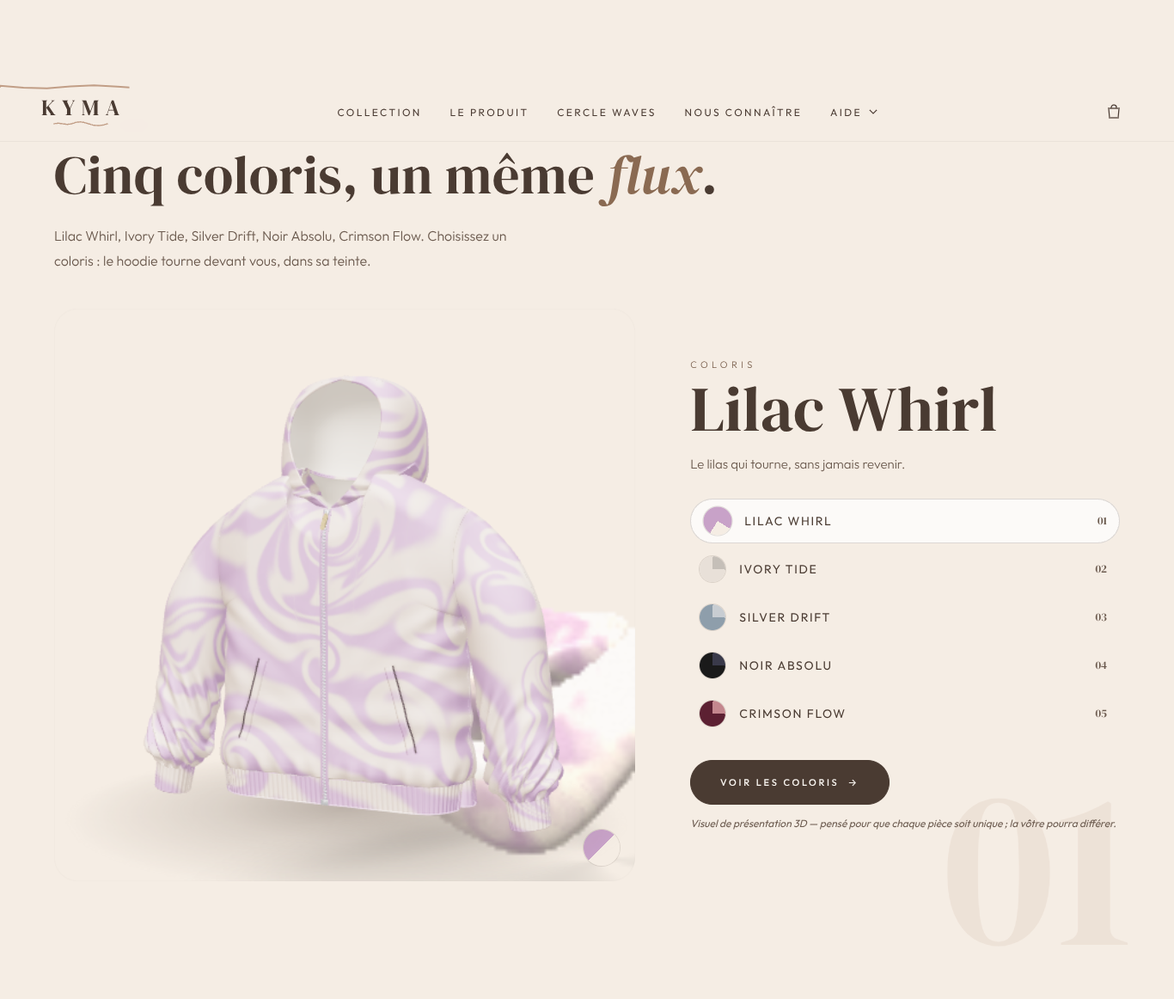
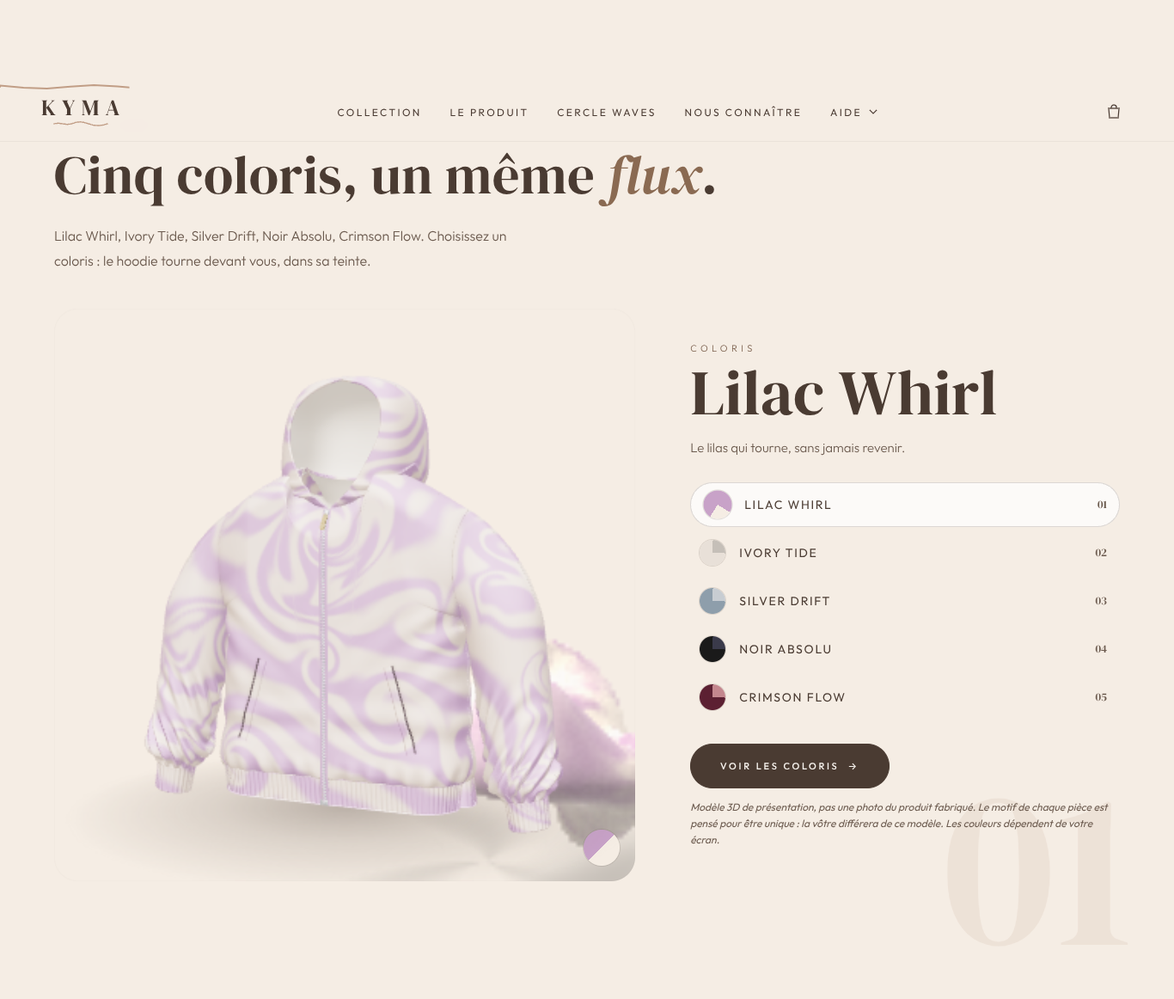
Maya : retouches finales d'Arthur sur la v4 et le calendrier Instagram
Claude-Session: https://claude.ai/code/session_01RrtVQxaHYVWpjYx9XrEfdG

Changed region(s): [[0.5842, 0.3408, 0.9531, 0.8365], [0.3382, 0.6196, 0.5534, 0.8985], [0.9224, 0.4957, 0.9531, 0.5267]]

diff --git a/shopify/3d/build_hoodie_v3.py b/shopify/3d/build_hoodie_v3.py
@@ -690,7 +690,7 @@ def shell_from_grid(G, out_ref, uv0, uv1, closed_u=False, lining_step=2, rims=("
         Ni = -Ni
     if apex:   # pointe : l'envers s'arrête où l'épaisseur s'annule (sinon il perce l'endroit)
         rowi = Fi.max(1) // len(ii)
-        Fi = Fi[th_rows[jj][rowi] > 0.5 * th]
+        Fi = Fi[rowlen[jj][rowi] > 0.08]
     U1i = uv1[np.ix_(jj, ii)].reshape(-1, 2)
     inner = Mesh(Vi, Fi, lining, None, U1i, Ni)
     # lisières (bord roulé) : rangée extérieure -> milieu bombé -> rangée intérieure

diff --git a/finance/cercle-waves-economie.md b/finance/cercle-waves-economie.md
@@ -1,0 +1,156 @@
+# Cercle Waves — économie, TVA et comptabilité (méthode et simulations sur prix publics)
+
+> **Auteur** : Abdou (comptable et conseiller financier KYMA) · **Date** : 10/10/2026 · **Pour** : fondateur, Victoire, Maya, Sacha, Arthur.
+> **Fichier versionné (dépôt public)** : uniquement des prix publics (12,99 €, 39,99 €, 5 %, 10 %, 179 €, 199 €) et des tarifs publics de prestataires. Les marges réelles du hoodie sont dans `finance/private/` (non versionné).
+> **Rappel unique** : je ne suis pas expert-comptable inscrit à l'Ordre ; le traitement TVA et comptable ci-dessous doit être validé par un expert-comptable diplômé avant la première souscription.
+> Calculs en Python, arrondis au centime. TVA 20 %.
+
+## 1. Prix publics : HT et TVA
+
+| Palier | Prix TTC / trimestre | HT | TVA | Sur 4 trimestres TTC (si l'abonné reste un an) | HT |
+|---|---|---|---|---|---|
+| INITIUM | 12,99 € | 10,83 € | 2,17 € | 51,96 € | 43,30 € |
+| MAJESTÉ | 39,99 € | 33,33 € | 6,67 € | 159,96 € | 133,30 € |
+
+## 2. Vérification des calculs de Victoire (et d'Arthur)
+
+| Calcul | Résultat | Verdict |
+|---|---|---|
+| Cashback par hoodie à 179 € | INITIUM 5 % = **8,95 €** ; MAJESTÉ 10 % = **17,90 €** | ✅ exact |
+| Seuil « le cashback couvre la cotisation » | INITIUM 12,99 ÷ 5 % = **259,80 €** (« 260 € ») ; MAJESTÉ 39,99 ÷ 10 % = **399,90 €** (« 400 € ») d'achats par trimestre | ✅ exact (calcul **vu du client**, en TTC ; le ratio est le même en HT) |
+| « Soit 2 hoodies » / « soit 3 hoodies » à 179 € | 2 × 179 = 358 € ≥ 259,80 ; 2 × 179 = 358 € < 399,90 ≤ 3 × 179 = 537 € | ✅ exact |
+| Rétractation MAJESTÉ au 4e jour d'une période de 91 jours | 39,99 × 4 ÷ 91 = 1,7578 → **1,76 € retenus**, **38,23 € remboursés** | ✅ exact (la période réelle compte 90 à 92 jours : la formule « jours écoulés ÷ jours de la période » reste juste) |
+| Même cas INITIUM | 12,99 × 4 ÷ 91 = **0,57 € retenus**, 12,42 € remboursés | (ajout) |
+
+**Deux précisions** :
+1. À **199 €**, le cashback devient 9,95 € (INITIUM) et 19,90 € (MAJESTÉ) ; **2 hoodies à 199 € = 398 €, juste sous le seuil MAJESTÉ de 399,90 €** : le message « 3 hoodies » reste vrai.
+2. Ces seuils disent quand le **client** récupère sa cotisation. Ils ne disent pas quand le programme **coûte** à KYMA : voir § 4.
+
+## 3. Coûts du programme pour KYMA (par abonné)
+
+| Poste | Central | Prudent | Source |
+|---|---|---|---|
+| Frais de paiement sur la cotisation | 1,5 % + 0,25 € → 0,44 € (INITIUM) / 0,85 € (MAJESTÉ) | 2,7 % + 0,25 € → 0,60 € / 1,33 € | Shopify Payments FR, Basic (Isabelle, `finance/couts-reels-recherche.md`) ; barème à vérifier dans l'admin |
+| Carte physique PVC imprimée | 1,50 € | 3,00 € | 0,15–3 € / u pour 100 cartes selon finition (hellopro.fr, accio) ; hypothèse sans devis |
+| Enveloppe | 0,20 € | 0,20 € | hypothèse |
+| Affranchissement lettre verte 20 g | 1,52 € | 1,52 € | La Poste, tarif au 01/01/2026 |
+| **Carte envoyée, total (une fois)** | **3,22 €** | **4,72 €** | Amortie sur 4 trimestres (central) ou 2 (prudent) |
+| Appli d'abonnement | ≈ 0,30 € / abonné / trimestre | idem | Appstle : gratuit jusqu'à 500 $ / mois de revenus d'abonnement, puis 10 / 30 / 100 $ / mois, 0 % de commission ; Seal : gratuit jusqu'à 50 abonnements, puis 5,95–9,95 $ / mois (Isabelle). Coût négligeable au démarrage ; Recharge (99 $ / mois) ou Bold (+1 à 2 %) à éviter |
+| Crédit Waves (avoirs) | 0 € si avoir natif Shopify ou Shopify Flow | — | voir § 6 (attention au traitement TVA de l'outil) |
+
+**Marge du programme avant cashback, par abonné et par trimestre** : INITIUM **9,28 €** (central) / **7,56 €** (prudent) ; MAJESTÉ **31,37 €** / **29,34 €**.
+
+## 4. Coût réel du cashback et seuil où le programme coûte plus qu'il ne rapporte
+
+**Méthode.** Le cashback est versé en Crédit Waves (avoir), pas en argent. Il ne coûte que **s'il est utilisé**. Quand il l'est, il réduit le prix payé sur un achat suivant : KYMA perd le **montant HT** du crédit (la TVA baisse avec le prix : voir § 5). Coût par trimestre = taux de cashback × achats TTC × **taux d'utilisation** ÷ 1,2.
+
+| Coût du cashback par hoodie utilisé | 179 € | 199 € |
+|---|---|---|
+| INITIUM 5 % | 8,95 € TTC → **7,46 € HT** | 9,95 € TTC → 8,29 € HT |
+| MAJESTÉ 10 % | 17,90 € TTC → **14,92 € HT** | 19,90 € TTC → 16,58 € HT |
+
+Soit, en pourcentage du chiffre d'affaires HT des abonnés : **5 % × taux d'utilisation** (INITIUM) et **10 % × taux d'utilisation** (MAJESTÉ).
+
+**Solde du programme par abonné et par trimestre** (cotisation HT − frais − carte − appli − cashback utilisé), selon les achats de produits TTC du trimestre et le taux d'utilisation des crédits :
+
+*Central*
+| Achats TTC / trimestre | INITIUM u = 50 % | 70 % | 100 % | MAJESTÉ u = 50 % | 70 % | 100 % |
+|---|---|---|---|---|---|---|
+| 0 € | 9,28 | 9,28 | 9,28 | 31,37 | 31,37 | 31,37 |
+| 179 € (1 hoodie) | 5,55 | 4,05 | 1,82 | 23,91 | 20,93 | 16,45 |
+| 358 € (2 hoodies) | 1,82 | −1,17 | −5,64 | 16,45 | 10,49 | 1,54 |
+| 537 € (3 hoodies) | −1,91 | −6,39 | −13,10 | 9,00 | 0,05 | −13,38 |
+| 716 € (4 hoodies) | −5,64 | −11,61 | −20,56 | 1,54 | −10,40 | −28,30 |
+
+*Prudent*
+| Achats TTC / trimestre | INITIUM u = 50 % | 70 % | 100 % | MAJESTÉ u = 50 % | 70 % | 100 % |
+|---|---|---|---|---|---|---|
+| 179 € | 3,84 | 2,34 | 0,11 | 21,88 | 18,89 | 14,42 |
+| 358 € | 0,11 | −2,88 | −7,35 | 14,42 | 8,45 | −0,50 |
+| 537 € | −3,62 | −8,10 | −14,81 | 6,96 | −1,99 | −15,41 |
+
+**Seuil d'achats trimestriels au-delà duquel le programme, pris isolément, coûte plus qu'il ne rapporte** : P* = (marge avant cashback × 1,2) ÷ (taux × u).
+
+| Seuil P* (TTC / trimestre) | u = 50 % | u = 70 % | u = 100 % |
+|---|---|---|---|
+| INITIUM central | 445 € | 318 € | **223 €** |
+| INITIUM prudent | 363 € | 259 € | **182 €** |
+| MAJESTÉ central | 753 € | 538 € | **376 €** |
+| MAJESTÉ prudent | 704 € | 503 € | **352 €** |
+
+À u = 100 % et sans frais, on retrouve exactement les seuils de Victoire (259,80 € et 399,90 €) : vu du client comme vu de KYMA, la cotisation « paie » le cashback jusqu'à ce niveau. Les frais de paiement et la carte **abaissent** le seuil côté KYMA (~182–223 € et ~352–376 €) ; un taux d'utilisation inférieur à 100 % le **relève**.
+
+**Mais ce seuil n'est pas le bon critère de décision.** Un abonné qui dépasse P* coûte au programme, mais il **achète** : chaque hoodie rapporte la marge sur coûts variables de KYMA (notée *m*). Le programme est rentable si les achats **supplémentaires** qu'il provoque compensent le cashback versé sur les achats qui auraient eu lieu de toute façon. Contribution d'un hoodie supplémentaire acheté par un abonné (u = 100 %, 179 €) = *m* − 7,46 € (INITIUM) ou *m* − 14,92 € (MAJESTÉ). Exemples illustratifs (*m* fictif, pas la marge réelle de KYMA) :
+
+| *m* illustratif | INITIUM | MAJESTÉ |
+|---|---|---|
+| 20 € | 12,54 € | **5,08 €** |
+| 40 € | 32,54 € | 25,08 € |
+| 60 € | 52,54 € | 45,08 € |
+
+Lecture : avec une marge unitaire faible, **le cashback de 10 % absorbe l'essentiel de la marge** de chaque hoodie acheté par un MAJESTÉ. Le calcul avec la marge réelle est dans `finance/private/cercle-waves-prive.md`.
+
+**Repères** : le marché observé par Isabelle se situe à 3–5 % de cashback ; 10 % est au-dessus (Victoire, E8). Le seul programme à crédit plus élevé (Vicci+) convertit **la cotisation elle-même** en crédit, ce qui est un autre modèle.
+
+## 5. TVA
+
+### 5.1 La cotisation
+- Prestation de services (accès anticipé, aperçus, carte, droit au cashback) : **TVA 20 %**, exigible **à l'encaissement** (règle des prestations de services). Chaque prélèvement trimestriel est une opération à facturer (facture ou ticket conforme, mention du palier et de la période).
+- **Rétractation** : le remboursement (total ou au prorata) réduit la base imposable et la TVA collectée du mois du remboursement.
+- **Carte physique** : accessoire de l'abonnement, comprise dans le prix (pas de facturation séparée), TVA 20 % de toute façon.
+- **Clients d'autres pays de l'UE** : tant que le total des ventes à distance de biens et des services électroniques à des particuliers d'autres États membres reste **sous 10 000 € par an**, TVA française ; au-delà, TVA du pays du client via le guichet unique (OSS). La qualification de l'abonnement (service fourni par voie électronique ou non) est à confirmer par l'expert-comptable (Victoire O1).
+- **Franchise en base** : si KYMA choisit la franchise (voir `finance/statut-comparatif.md`), aucune TVA n'est facturée (« TVA non applicable, art. 293 B du CGI ») et les calculs HT ci-dessus deviennent TTC = HT.
+
+### 5.2 Le Crédit Waves : bon (art. 256 ter CGI) ou réduction de prix ?
+| Question | Réponse | Certitude |
+|---|---|---|
+| Le Crédit Waves est-il un « bon » au sens de l'art. 256 ter du CGI (directive (UE) 2016/1065) ? | **Probablement non.** Un bon suppose d'être **remis à titre onéreux** : le BOFiP précise que les bons **remis gratuitement** par l'émetteur ne relèvent pas de l'art. 256 ter (BOI-TVA-CHAMP-10-10-40-50). Le Crédit Waves n'est pas vendu : il est accordé en fonction d'un achat. | Moyenne : le client paie une cotisation qui donne **droit** au cashback ; l'administration pourrait y voir une contrepartie. À faire trancher par l'expert-comptable. |
+| Si c'était un bon : à usage unique ou à usages multiples ? | À **usage unique** si, à l'émission, le lieu de livraison et la TVA due sont connus (tous les produits KYMA à 20 %, livraison en France) ; **à usages multiples** s'il peut servir pour des livraisons dans d'autres États membres (TVA du pays du client via OSS) ou sur des produits à taux différents. Bon à usage unique = TVA due **à l'émission** ; bon à usages multiples = TVA due **à l'utilisation**. | Élevée sur la règle (BOFiP) |
+| Traitement retenu (proposition) | **Réduction de prix accordée sur l'achat suivant** : la TVA est calculée sur le prix **effectivement payé** après déduction du crédit (CGI art. 267, II-2° : les rabais, remises et ristournes consentis directement aux clients sont exclus de la base). Aucune TVA à l'octroi du crédit ; aucune TVA sur la part payée en crédit. | Moyenne : pas de doctrine trouvée sur les programmes de fidélité eux-mêmes |
+| Alternative | Rabais ultérieur sur l'achat **qui a généré** le crédit (avoir rectificatif). Écarté : le crédit peut ne jamais être utilisé, l'avoir serait prématuré. | — |
+| Crédit remboursable en argent ? | **Non** (décision Victoire) : sinon il changerait de nature (moyen de paiement, monnaie électronique). | Élevée |
+
+**Exemple** (proposition à valider) : un abonné MAJESTÉ a 17,90 € de crédit et achète un hoodie à 179 €. Il paie 161,10 € TTC. Base HT = 161,10 ÷ 1,2 = **134,25 €** ; TVA = **26,85 €** (au lieu de 29,83 €). KYMA a bien « payé » 14,92 € HT de cashback.
+
+**⚠ Point technique (Sacha)** : si le Crédit Waves est créé comme **crédit en magasin ou carte cadeau** dans Shopify, Shopify le traite comme un **moyen de paiement** et calcule la TVA sur 179 € : la déclaration de TVA tirée des rapports Shopify serait alors **trop élevée**, ou le traitement « réduction de prix » contredit par les pièces. Deux solutions : (a) appliquer le crédit comme **remise** sur la commande (code ou réduction automatique), ou (b) garder le crédit en magasin et corriger la base TVA en comptabilité, avec une procédure écrite validée par l'expert-comptable. À trancher **avant** la première commande d'un abonné.
+
+Note : la cotisation ne doit pas être présentée comme convertible en crédit ; si un jour KYMA vend un « crédit prépayé » (type Vicci+), il deviendrait un **bon à titre onéreux** (art. 256 ter) : autre traitement.
+
+## 6. Comptabilité (plan comptable général, schéma à valider)
+
+| Événement | Écriture (comptes PCG) |
+|---|---|
+| Encaissement de la cotisation | 512 / 411 au débit ; **706** Prestations de services (HT) et **44571** TVA collectée au crédit. Frais de paiement : 627 (services bancaires). |
+| Clôture d'exercice en cours de trimestre | Part de la cotisation non courue → **487** Produits constatés d'avance (prorata des jours restants). |
+| Carte et envoi | 606 (fournitures) ou 6236 (imprimés), 6261 (frais postaux). |
+| Appli d'abonnement, Shopify | 651 / 6135 (licences, abonnements logiciels) ; facture irlandaise : autoliquidation 4452 / 44566. |
+| Octroi d'un Crédit Waves | Pas d'écriture de TVA. Suivi extra-comptable du solde (export de l'appli). |
+| Clôture : crédits octroyés non encore utilisés | Provision ou charge à payer = solde des crédits **HT × taux d'utilisation attendu** : par exemple 709 (rabais, remises, ristournes accordés) / **4198** (RRR à accorder et autres avoirs à établir), ou provision pour risques (6815 / 151). Fiscalement, la déduction d'une provision pour bons de réduction d'un programme de fidélité a été admise par un avis du Conseil d'État de 2009 (source secondaire) : à confirmer. |
+| Utilisation d'un crédit | Vente enregistrée au prix payé (ou prix plein + **709** pour la remise) ; reprise de la provision ou de la charge à payer correspondante. |
+| Expiration d'un crédit (12 mois proposés) | Reprise de la provision : produit. |
+| Rétractation de l'abonnement | 706 et 44571 au débit pour la part remboursée ; frais de paiement non remboursés (perte). |
+
+**Coût d'une rétractation pour KYMA** : MAJESTÉ au 4e jour = 1,47 € HT conservés − 0,85 € de frais − 3,22 € de carte = **−2,60 €** ; INITIUM = 0,48 − 0,44 − 3,22 = **−3,18 €** (central). **Proposition** : envoyer la carte **après** le délai de rétractation (J+15) ; à concilier avec le délai d'envoi annoncé (Victoire propose « au plus tard 14 jours » : passer à « 21 jours » ?).
+
+## 7. Points à décider (fondateur)
+1. **Taux MAJESTÉ** : garder 10 % (au-dessus du marché, 3–5 %) ou passer à 7–8 % ; ou plafonner le cashback par trimestre (à écrire à l'art. 7.1 des conditions et sous la carte).
+2. **Assiette** : cashback sur le prix payé **hors** part réglée en Crédit Waves (sinon le crédit génère du crédit) ; à écrire noir sur blanc.
+3. **Validité** : 12 mois (proposition Victoire) : favorable aux comptes (expiration = reprise de provision) tout en limitant le risque de clause abusive.
+4. **Outil** : remise plutôt que crédit en magasin (TVA, § 5.2).
+5. **Carte** : envoi après le délai de rétractation.
+
+## 8. Points de vigilance
+- 🔴 **TVA du Crédit Waves** : traitement « réduction de prix » à faire valider par l'expert-comptable **avant** la première souscription ; vérifier le comportement de Shopify (crédit en magasin = moyen de paiement).
+- 🟠 **Cashback 10 %** : le programme est perdant par abonné MAJESTÉ dès ~350–540 € d'achats par trimestre selon le taux d'utilisation ; il n'est rentable que s'il provoque des achats supplémentaires.
+- 🟠 **OSS** : surveiller le seuil de 10 000 € de ventes à des particuliers d'autres États membres.
+- 🟠 **Provision de clôture** : suivre le solde des crédits non utilisés (export mensuel de l'appli).
+- 🟢 Indicateurs à suivre chaque mois : nombre d'abonnés par palier, taux de résiliation, achats moyens par abonné, taux d'utilisation des crédits, crédits expirés.
+
+## Sources (consultées le 09–10/10/2026 ; accès direct à bofip.impots.gouv.fr et legifrance.gouv.fr bloqué depuis l'environnement : extraits de recherche)
+- BOFiP **BOI-TVA-CHAMP-10-10-40-50** (bons, art. 256 ter CGI : définition, usage unique / multiples, bons remis gratuitement hors champ) ; legifiscal.fr, « Les bons : les règles de TVA ».
+- BOFiP **BOI-TVA-BASE-10-20-10** (base d'imposition, bons de réduction) ; CGI art. 267, II-2° (rabais, remises, ristournes) ; directive (UE) 2016/1065.
+- Exigibilité des prestations de services à l'encaissement : CGI art. 269, 2-c (à relire).
+- Provision pour programmes de fidélité : avis du Conseil d'État, 2009, rapporté par fiscalonline.com (source secondaire).
+- Shopify Payments, Appstle, Seal, Recharge, Bold : `shopify/contenu/recherche-abonnement-fidelite.md` et `finance/couts-reels-recherche.md` (Isabelle).
+- La Poste, tarif lettre verte 2026 (1,52 € pour 20 g) ; hellopro.fr, « Combien coûte une carte de fidélité ».
+- Cadre juridique (rétractation, reconduction, cashback) : `shopify/conformite.md`, sections « Cercle Waves » et « Entraide 09/10/2026 » (Victoire).

diff --git a/shopify/contenu/instagram-calendrier-4-semaines.md b/shopify/contenu/instagram-calendrier-4-semaines.md
@@ -18,12 +18,14 @@
 | P4 | Aucun crochet visible sur les pages vers lesquelles Instagram renvoie (E3) | Sacha | Une capture ou un lien qui montre « [À CONFIRMER] » est une publication fautive |
 | P5 | Provenance des GLB `ressac-v2-*.glb` documentée (L5) : auteur, outils, aucun élément tiers, aucune IA | Izaac, fondateur | On publie des captures de ces modèles sur un compte de marque |
 | P6 | Validation d'Arthur (« VALIDÉ ») + confirmation du fondateur | Arthur, fondateur | Règle de livraison |
-| P7 | **Société immatriculée**, politique de confidentialité publiée, boutique sur **forfait payant** ; page des conditions publiée **sans crochet après relecture d'un avocat** | Fondateur, Victoire, Sacha | Statut du post d'annonce (v4 §3, points 4 et 5). **Aucune adresse n'est collectée et aucun e-mail n'est envoyé aux inscrits (confirmation, annonce, newsletter) avant que P7 soit levée** |
+| P7 | **Société immatriculée**, politique de confidentialité publiée, boutique sur **forfait payant** ; page des conditions publiée **sans crochet après relecture d'un avocat** | Fondateur, Victoire, Sacha | Statut du post d'annonce (v4 §3, points 3 et 4). **Rien n'est publié, collecté ni envoyé avant que P7 soit levée : aucune adresse n'est collectée et aucun e-mail n'est envoyé aux inscrits (confirmation, annonce, newsletter)** |
 
 **Portes spécifiques à certains posts**
 - **S2 J1 et suivants (nom « Ressac »)** : accord de Victoire sur l'usage du nom (aucune antériorité recherchée, conformité Entraide E, remarque i).
 - **S3 J1 (cinq coloris)** : le fondateur confirme les 5 coloris du tech pack v3 (point d'arbitrage n° 1 de BRAND.md).
+- **S4 J1 (prix et reconduction affichés)** : relecture de Victoire.
 - **S4 J1, version B** : valeurs entre crochets des avantages validées (partie 4 du document v4) et date du premier accès anticipé fixée (E1).
+- **Partie 6, réponse « Fabriqué où ? »** : « imaginée à Paris » seulement après confirmation du fondateur (comme le champ `Imaginé à | Paris` du récit 3D). Sans cette confirmation : « KYMA est une marque parisienne. »
 
 Si P1 à P7 ne sont pas réunies à la date voulue, on décale **tout** le calendrier (les CTA renvoient tous au site). Le contenu ne se publie pas « sans lien ».
 
@@ -44,10 +46,10 @@ Si P1 à P7 ne sont pas réunies à la date voulue, on décale **tout** le calen
 
 1. **Aucune image générée par IA.** Sources autorisées : captures du site (modèle 3D, anneaux, motif), dessins techniques vectoriels, typographie en mouvement, photos et vidéos réelles du fondateur, enregistrements sonores réels ou sons libres de droits à usage commercial.
 2. **Mention 3D incrustée dans le visuel** (pas seulement en légende) sur toute capture du hoodie : « Modèle 3D de présentation, pas une photo du produit fabriqué. » Sur les captures de coloris, ajouter « Les couleurs dépendent de votre écran. » Sur le motif : « Illustration du motif, pas une photo du produit fabriqué. Chaque pièce est pensée pour être unique. » Texte DM Serif/Outfit lisible (jamais sous 24 px en 1080 de large), présent pendant **toute** la durée d'une vidéo, non masqué par l'interface d'Instagram (zone de sécurité haut/bas 250 px en 9:16).
-3. **Phrase de cadrage sur toute pièce qui montre le hoodie** : « Pas encore en vente ; aucune date n'est fixée. » Elle évite l'omission d'information (L.121-3) et la fausse rareté (L.121-4).
+3. **Phrase de cadrage sur toute pièce qui montre le hoodie** : « Pas encore en vente ; aucune date n'est fixée. » Elle évite l'omission d'information (L.121-3) et la fausse rareté (L.121-4). Sur les stories et les vidéos, elle est **incrustée dans le visuel**, comme la mention 3D.
 4. **Interdits de contenu** : GOTS, bio, coton biologique, Portugal / « Made in », drapeau, « éco-responsable », « durable », « zéro plastique » ; prix barré, réduction ; « pièce unique » seul (on écrit « pensée pour être unique ») ; « édition limitée » ; « exclusif », « élite », « VIP », « privilège », « cercle fermé », « sélection », « garanti », « avant tout le monde », « gagnez », « rentabilisez » ; plaqué or, argent brossé (on écrit « finition dorée brossée », « finition argentée brossée »).
 5. **Aucune promesse non datée** : pas de « bientôt », « prochainement », « à venir », « restez connectés ». On énonce l'état présent (« n'est pas encore ouvert », « aucune date n'est fixée »).
-6. **Aucune mention de prix du hoodie** (179 € ou 199 € non tranché). Les prix du Cercle Waves n'apparaissent qu'en S4 J1 (voir note Victoire).
+6. **Aucune mention de prix du hoodie** (179 € ou 199 € non tranché). Les prix du Cercle Waves n'apparaissent qu'en S4 J1.
 7. **Coulisses réelles** : ne montrer ni tech pack complet, ni document de fabricant, ni nom de fournisseur, ni lieu d'atelier (aucun fabricant signé : une image d'atelier suggérerait une origine). Pas de personne tierce reconnaissable sans autorisation écrite (droit à l'image, point 20). Aucune image du lookbook (banque d'images, gabarit Canva).
 8. **Sons** : enregistrement du fondateur (vagues réelles, crayon sur papier) ou musique libre de droits à usage commercial avec licence conservée. Pas de morceau du catalogue grand public sur un compte de marque.
 9. **Accessibilité** : alt-text à chaque image ou carrousel (3 propositions ci-dessous, retenir la première par défaut) ; sous-titres incrustés sur les vidéos qui parlent ; mouvement doux, aucun flash ; toute vidéo reste compréhensible sans le son.
@@ -62,7 +64,7 @@ Si P1 à P7 ne sont pas réunies à la date voulue, on décale **tout** le calen
 ### S1 J1 — Fil, image unique : annonce de la liste d'attente
 - **Format** : image 4:5 (1080×1350), statique (le visuel animé existe sur le site ; l'image est une capture).
 - **Visuel** : capture du visuel « anneaux » du site : deux anneaux satinés, rose clair et marron clair, qui se rapprochent sur fond beige. Texte incrusté discret : « Cercle Waves » (DM Serif, « Waves » en italique brun) et, en bas, « Rendu 3D, pas une photo. »
-- **Légende** (texte de la v4 corrigée au cycle 1, variante d'accroche n° 1) :
+- **Légende** (texte de la v4 §3, mot pour mot) :
 
 > Un cercle se dessine, vague après vague.
 >
@@ -182,7 +184,7 @@ Si P1 à P7 ne sont pas réunies à la date voulue, on décale **tout** le calen
 
 > Un seul éclat.
 >
-> Sculptée « Kyma », dessinée en laiton, finition dorée brossée : la tirette est le détail que le reste de la pièce laisse venir en dernier. Modèle 3D de présentation, pas une photo du produit fabriqué. Le hoodie n'est pas encore en vente ; aucune date n'est fixée.
+> Sculptée « Kyma », en laiton, finition dorée brossée : la tirette est le détail que le reste de la pièce laisse venir en dernier. Modèle 3D de présentation, pas une photo du produit fabriqué. Le hoodie n'est pas encore en vente ; aucune date n'est fixée.
 >
 > Le récit complet se parcourt sur le site (lien en bio).
 
@@ -222,7 +224,8 @@ Si P1 à P7 ne sont pas réunies à la date voulue, on décale **tout** le calen
 - **Hashtags (5)** : #kyma #lartduflow #hoodieoversize #streetwearunisexe #automne
 
 ### S3 J2 — Stories (4) : une teinte à la fois
-- **Format** : 3 stories fixes (Lilac Whirl, Silver Drift, Crimson Flow en rendu 3D, mention incrustée) puis 1 story sondage : « Lilac Whirl ou Silver Drift ? »
+- **Format** : 3 stories fixes (Lilac Whirl, Silver Drift, Crimson Flow en rendu 3D) puis 1 story sondage : « Lilac Whirl ou Silver Drift ? »
+- **Mentions incrustées sur chacune des 3 stories de rendu 3D** : « Modèle 3D de présentation, pas une photo du produit fabriqué. Les couleurs dépendent de votre écran. » et « Pas encore en vente ; aucune date n'est fixée. »
 - **Réponse au sondage** : un simple « Merci, la marée est partagée. » Aucune promesse de production ou de quantité.
 - **CTA** : sticker lien vers le site (section coloris).
 
@@ -260,15 +263,15 @@ Si P1 à P7 ne sont pas réunies à la date voulue, on décale **tout** le calen
 
 ### S3 J6 — Stories (3) : le vocabulaire de la marée
 - **Format** : 3 stories typographiques, DM Serif sur beige grainé.
-- **Texte** : (1) « Ressac : le retour de la vague sur elle-même. » (2) « Sillage : ce qui reste du passage. » (3) « Écume : la limite entre deux états. » On peut intercaler un des mots reçus en S1 J7 (avec accord de la personne).
+- **Texte** : (1) « Ressac : le retour de la vague sur elle-même. » (2) « Houle : le mouvement lent qui précède la vague. » (3) « Écume : la limite entre deux états. » On peut intercaler un des mots reçus en S1 J7 (avec accord de la personne).
 - **CTA** : aucun.
 
 ---
 
 ## 5. Semaine 4 — « Deux paliers, un même courant »
 
-### S4 J1 — Fil, carrousel : INITIUM et MAJESTÉ (version A, publiable sans les avantages)
-- **Porte** : relecture de Victoire (prix et reconduction affichés, voir note ci-dessous).
+### S4 J1 — Fil, carrousel : INITIUM et MAJESTÉ (version A, avec prix et reconduction, sans les avantages)
+- **Porte** : relecture de Victoire (prix et reconduction affichés).
 - **Format** : carrousel 5 images 4:5, typographie sur beige grainé.
 - **Visuel** : 1) « Deux paliers, un même courant. » ; 2) « INITIUM. L'entrée dans le cercle. 12,99 € TTC par trimestre. » ; 3) « MAJESTÉ. Le palier supérieur. 39,99 € TTC par trimestre. » ; 4) « Abonnement trimestriel, renouvelé automatiquement tous les 3 mois. Résiliable à tout moment en ligne, sans frais. Rétractation possible sous 14 jours. Réservé aux majeurs. » ; 5) « L'abonnement n'est pas encore ouvert. La liste d'attente l'est. Lien en bio. »
 - **Légende** :
@@ -286,7 +289,7 @@ Si P1 à P7 ne sont pas réunies à la date voulue, on décale **tout** le calen
 - **CTA** : « Le cercle se prépare. » + lien en bio.
 - **Hashtags (5)** : #kyma #lartduflow #cerclewaves #streetwearunisexe #parisstreetwear
 - **Version B (à produire seulement après validation des valeurs entre crochets et de la date du premier accès anticipé)** : ajouter une carte « Avantages » qui reprend **mot pour mot** les lignes `perks` de la page (§1.2 du document v4), crochets remplacés par les valeurs validées, avec la note de nature du cashback (« versé en crédit KYMA, pas en espèces… »). Aucun avantage chiffré ni daté ne figure dans la version A.
-- **Note pour Victoire** : le post d'annonce v4 excluait le prix. Ici je l'inclus parce que la description des deux paliers sans prix ni reconduction me semble une omission (L.121-3). À trancher : version avec ou sans prix.
+- **Décision (Arthur)** : version **avec** prix et reconduction. Les afficher évite l'omission d'information essentielle sur un abonnement (L.121-3) ; la relecture de Victoire reste une porte.
 
 ### S4 J2 — Stories (4) : « Vos questions »
 - **Format** : 1 story avec sticker questions le matin ; 4 stories de réponses fixes le soir (typographie).
@@ -349,7 +352,7 @@ Ton : calme, court, vouvoiement, jamais défensif. Une réponse de moins de 24 h
 | « Je peux m'abonner ? » | « Pas encore : seule la liste d'attente est ouverte, sans paiement. » |
 | « Le Cercle Waves est gratuit ? » | « Non : deux paliers payants, en abonnement trimestriel. L'inscription à la liste d'attente, elle, ne coûte rien. » |
 | « Je me suis inscrit, je n'ai rien reçu. » | « Nous vous écrirons à l'ouverture du Cercle Waves ; la date n'est pas encore fixée. Vous pouvez vous désinscrire à tout moment. » (Aucune promesse de message avant la porte P7.) |
-| « Fabriqué où ? Portugal ? » | « KYMA est imaginée à Paris. Nous n'indiquons que ce qui est confirmé, et ce point ne l'est pas encore. » |
+| « Fabriqué où ? Portugal ? » | « KYMA est une marque parisienne. Nous n'indiquons que ce qui est confirmé, et le lieu de fabrication ne l'est pas encore. » Après confirmation du fondateur (porte de la partie 0) : « KYMA est imaginée à Paris. » |
 | « Coton bio ? GOTS ? » | « Nous n'annonçons que ce qui est confirmé et documenté. La composition n'est pas encore confirmée. » |
 | « Chaque pièce est unique ? » | « Chaque pièce est pensée pour être unique ; la vôtre différera des modèles 3D. » |
 | « Édition limitée ? Combien de pièces ? » | « Nous ne communiquons pas de quantité à ce stade. » |
@@ -404,10 +407,10 @@ Priorité haute (relire avant publication, chaque pièce) :
 | S1 J1 (annonce) | Texte v4 corrigé au cycle 1, déjà relu en base ; vérifier la cohérence avec la version finale de la page |
 | S1 J5 (carrousel) | « Cette inscription n'est pas un abonnement : aucun paiement n'est demandé », cohérence avec le formulaire |
 | S2 J1, J3 | Nom « Ressac » (antériorité), « pas encore en vente ; aucune date n'est fixée », dessin de conception |
-| S2 J5 | « Dessinée en laiton, finition dorée brossée » (R5) |
+| S2 J5 | « En laiton, finition dorée brossée » (R5) |
 | S3 J1 | Cinq noms de coloris, descriptions poétiques, mention « couleurs dépendent de votre écran » |
 | S3 J5 | « Aucune vague ne ressemble à la précédente » : métaphore proche d'une allégation d'unicité, à confirmer |
-| S4 J1 | **Prix TTC et reconduction dans un post** (voir note), version B (avantages) |
+| S4 J1 | **Prix TTC et reconduction dans un post** (version avec prix retenue par Arthur), version B (avantages) |
 | S4 J2 | Quatre réponses de FAQ |
 | Toutes les vidéos | Licence des sons ; droit à l'image dans les coulisses |
 
@@ -462,7 +465,7 @@ Vérifier le volume réel et la pertinence des hashtags #parisstreetwear, #stree
 | S3 J3 | Reel | Récit au défilement | |
 | S3 J5 | Fil image | Motif KYMA Wave | |
 | S3 J6 | 3 stories | Vocabulaire de la marée | |
-| S4 J1 | Carrousel 5 | INITIUM / MAJESTÉ (version A) | Relecture Victoire |
+| S4 J1 | Carrousel 5 | INITIUM / MAJESTÉ (version A, avec prix) | Relecture Victoire |
 | S4 J2 | 5 stories | Vos questions | |
 | S4 J3 | Reel | Quatre semaines de ressac | |
 | S4 J5 | Fil image | Noir Absolu (3D) | |
